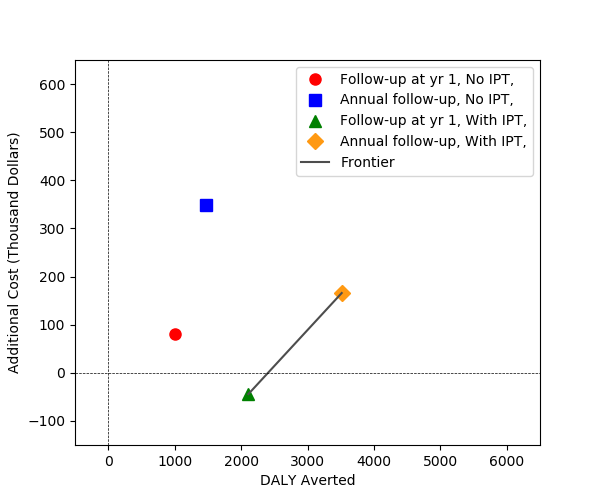
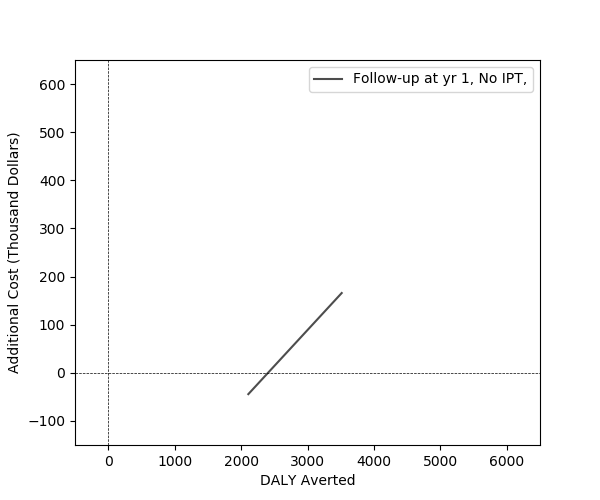
adding cost-effectiveness ratio

diff --git a/tb/TB_CEA.py b/tb/TB_CEA.py
@@ -6,7 +6,7 @@ markers = ['o', 's', '^', 'D']
 colors = ['r', 'b', 'g', '#FF9912']
 
 PROB_UPTAKE = 0.75      # 0.5, 0.75, 1
-PROB_DROPOUT = 0.25     # 0.1, 0.15, 0.25,
+PROB_DROPOUT = 0.15     # 0.1, 0.15, 0.25,
 
 # conditions of variables to define scenarios to display on the cost-effectiveness plane
 # here we want scenarios with
@@ -39,10 +39,14 @@ varConditions = [
                           )
 ]
 
+# data frame of scenarios
+dfScenarios = Cls.ScenarioDataFrame(csv_file_name='csvfiles\TBScenarios.csv')
+
 # series to display on the cost-effectiveness plane
 series = [
     Cls.Series(name='U{:.{prec}f}%'.format(PROB_UPTAKE * 100, prec=0)
                     +'-D{:.{prec}f}%'.format(PROB_DROPOUT * 100, prec=0),
+               scenario_df=dfScenarios,
                color='#4D4D4D',  # '#808A87',
                variable_conditions=varConditions,
                if_find_frontier=True,
@@ -52,11 +56,13 @@ series = [
 
 # populate series
 Cls.populate_series(series,
-                    csv_filename='csvfiles\TBScenarios.csv',
                     save_cea_results=True,
-                    interval_type=Econ.Interval.PREDICTION,
+                    interval_type='p',
                     effect_multiplier=1,
                     cost_multiplier=1 / 1e3)
+
+
+print(series[0].CEA.get_dCost_dEffect_cer())
 
 # plot
 fig, ax = plt.subplots(figsize=(6, 5))
